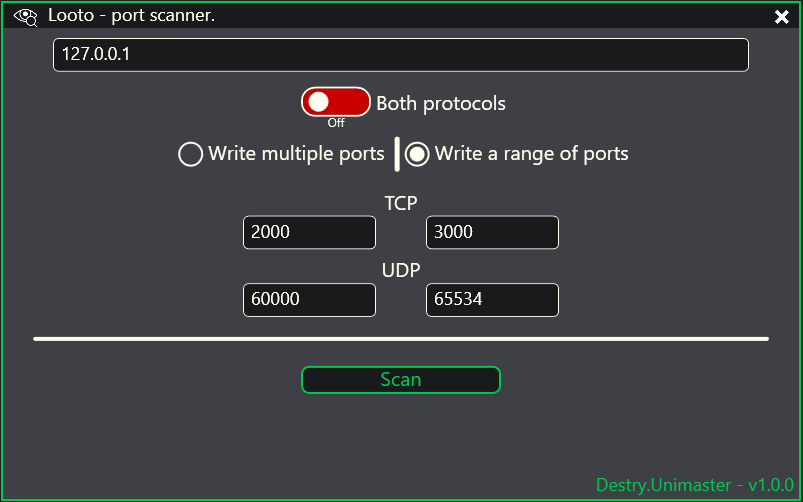
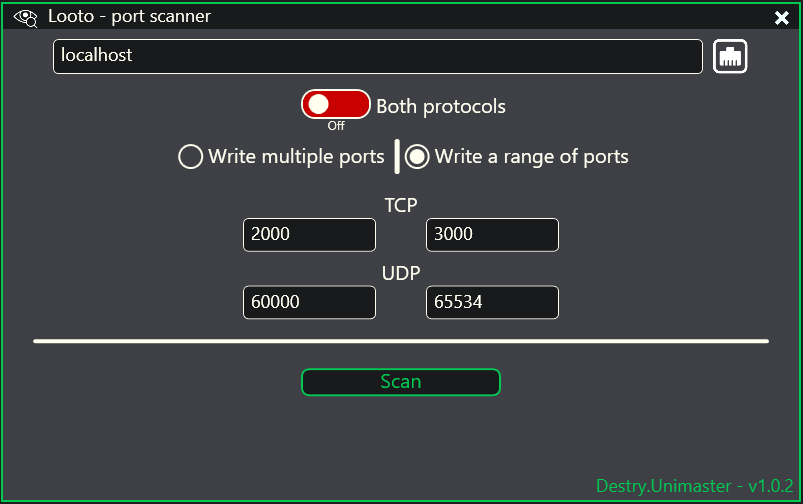
Edit: README and CHANGELOG was changed for preparing app to v1.0.2;

diff --git a/README.md b/README.md
@@ -14,6 +14,7 @@ Main window contains all inputs for settings scanning. Theese are inputs such as
 
 While the scan is in progress, you can see the progress bar.
 <img src="./README_RESOURCES/IM_1.png" style="display: block;margin-left: auto;margin-right: auto;">
+<img src="./README_RESOURCES/IM_2.png" style="display: block;margin-left: auto;margin-right: auto;">
 <img src="./README_RESOURCES/IM_3.png" style="display: block;margin-left: auto;margin-right: auto;">
 
 ---
@@ -21,22 +22,36 @@ While the scan is in progress, you can see the progress bar.
 
 ### ✔ Scan result
 After scanning you will see the scan result in an understandable form.
-<img src="./README_RESOURCES/IM_2.png" style="display: block;margin-left: auto;margin-right: auto;">
+<img src="./README_RESOURCES/IM_4.png" style="display: block;margin-left: auto;margin-right: auto;">
+
+---
+<br/>
+
+
+### 🔍 LAN List
+Scan your local network and get all devices IP in LAN. For convenience you can copy IP address from list to scan window with "Apply" button.
+<img src="./README_RESOURCES/IM_5.png" style="display: block;margin-left: auto;margin-right: auto;">
+
+---
+<br/>
+
+### ❌ Error handling
+If error was occured in theory app will not crash. It will show window about crash, then will write logs entries with EXCP type with creating bug report. You can write new issue as bug report [here](https://github.com/DES-Destry/Looto/issues/new?assignees=DES-Destry&labels=bug&template=bug_report.md&title=Looto+have+a+bug%21). For more informative of the bug you can send ".data" folder content to agafonovandrej69@gmail.com. I'll not check your ".data" folder without created issue!
+<img src="./README_RESOURCES/IM_6.png" style="display: block;margin-left: auto;margin-right: auto;">
 
 ---
 <br/>
 <br/>
 
 ## 📜Install
-Lastest stable version of application will be available in [Releases](https://github.com/DES-Destry/Looto/releases) of [GitHub repository](https://github.com/DES-Destry/Looto). For stable working of application you need only one executable file (Looto.exe), other files not necessary for application working, but still important.
-<img src="./README_RESOURCES/IM_4.png" style="display: block;margin-left: auto;margin-right: auto;">
+Lastest stable version of application will be available in [Releases](https://github.com/DES-Destry/Looto/releases) of [GitHub repository](https://github.com/DES-Destry/Looto). For stable working of application you need only one executable file (Looto.exe) and ".data" folder. Other files not necessary for application working, but still important.
+<img src="./README_RESOURCES/IM_7.png" style="display: block;margin-left: auto;margin-right: auto;">
 
 <br/>
 <br/>
 
 ## 🔜 Coming soon...
 - At the moment this soft a little unfinished, but all mistakes will be fixed in the next versions of software.
-- Showing hosts near you.
 - Fix UDP scanning. Now it always shows Opened state(if the port actually closed)
 - Optimize memory using in port results render. If ports count is 65534 in result, then app uses ~1.2GB of RAM.
 - Make application flexible configurable with settings page.

diff --git a/CHANGELOG.md b/CHANGELOG.md
@@ -1,5 +1,10 @@
 # Versions
 
+## v1.0.2
+- Error handling. Now app can write logs and made bug report files in .data\_logs folder. If exception was catched app now shows window with error info.(in the previous version the app only crashed without warnings or consequenses)
+- Not scanning hosts ports if host doesn't exists.(in the previous version the app shows all ports of not existed host as closed)
+- Added host scanner. Now you can see the list of devices IP addresses, that are on the same local network.
+
 ## v1.0.1
 - Now in host input user can type Domain name(in the previous version user can type only IP address)
 - Stop button added. If you realized that you don't need to scan everything, but realized it too late, then you can complete the process. But the check of those ports that have started to be checked will not stop and you will have to wait for some time.

diff --git a/.github/ISSUE_TEMPLATE/bug_report.md b/.github/ISSUE_TEMPLATE/bug_report.md
@@ -22,3 +22,6 @@ A clear and concise description of what you expected to happen.
 
 **Screenshots**
 If applicable, add screenshots to help explain your problem.
+
+**Logs and bug reports, that genarate app**
+Send to agafonovandrej69@gmail.com ".data" folder content. I'll check it only if you enter your email here.
